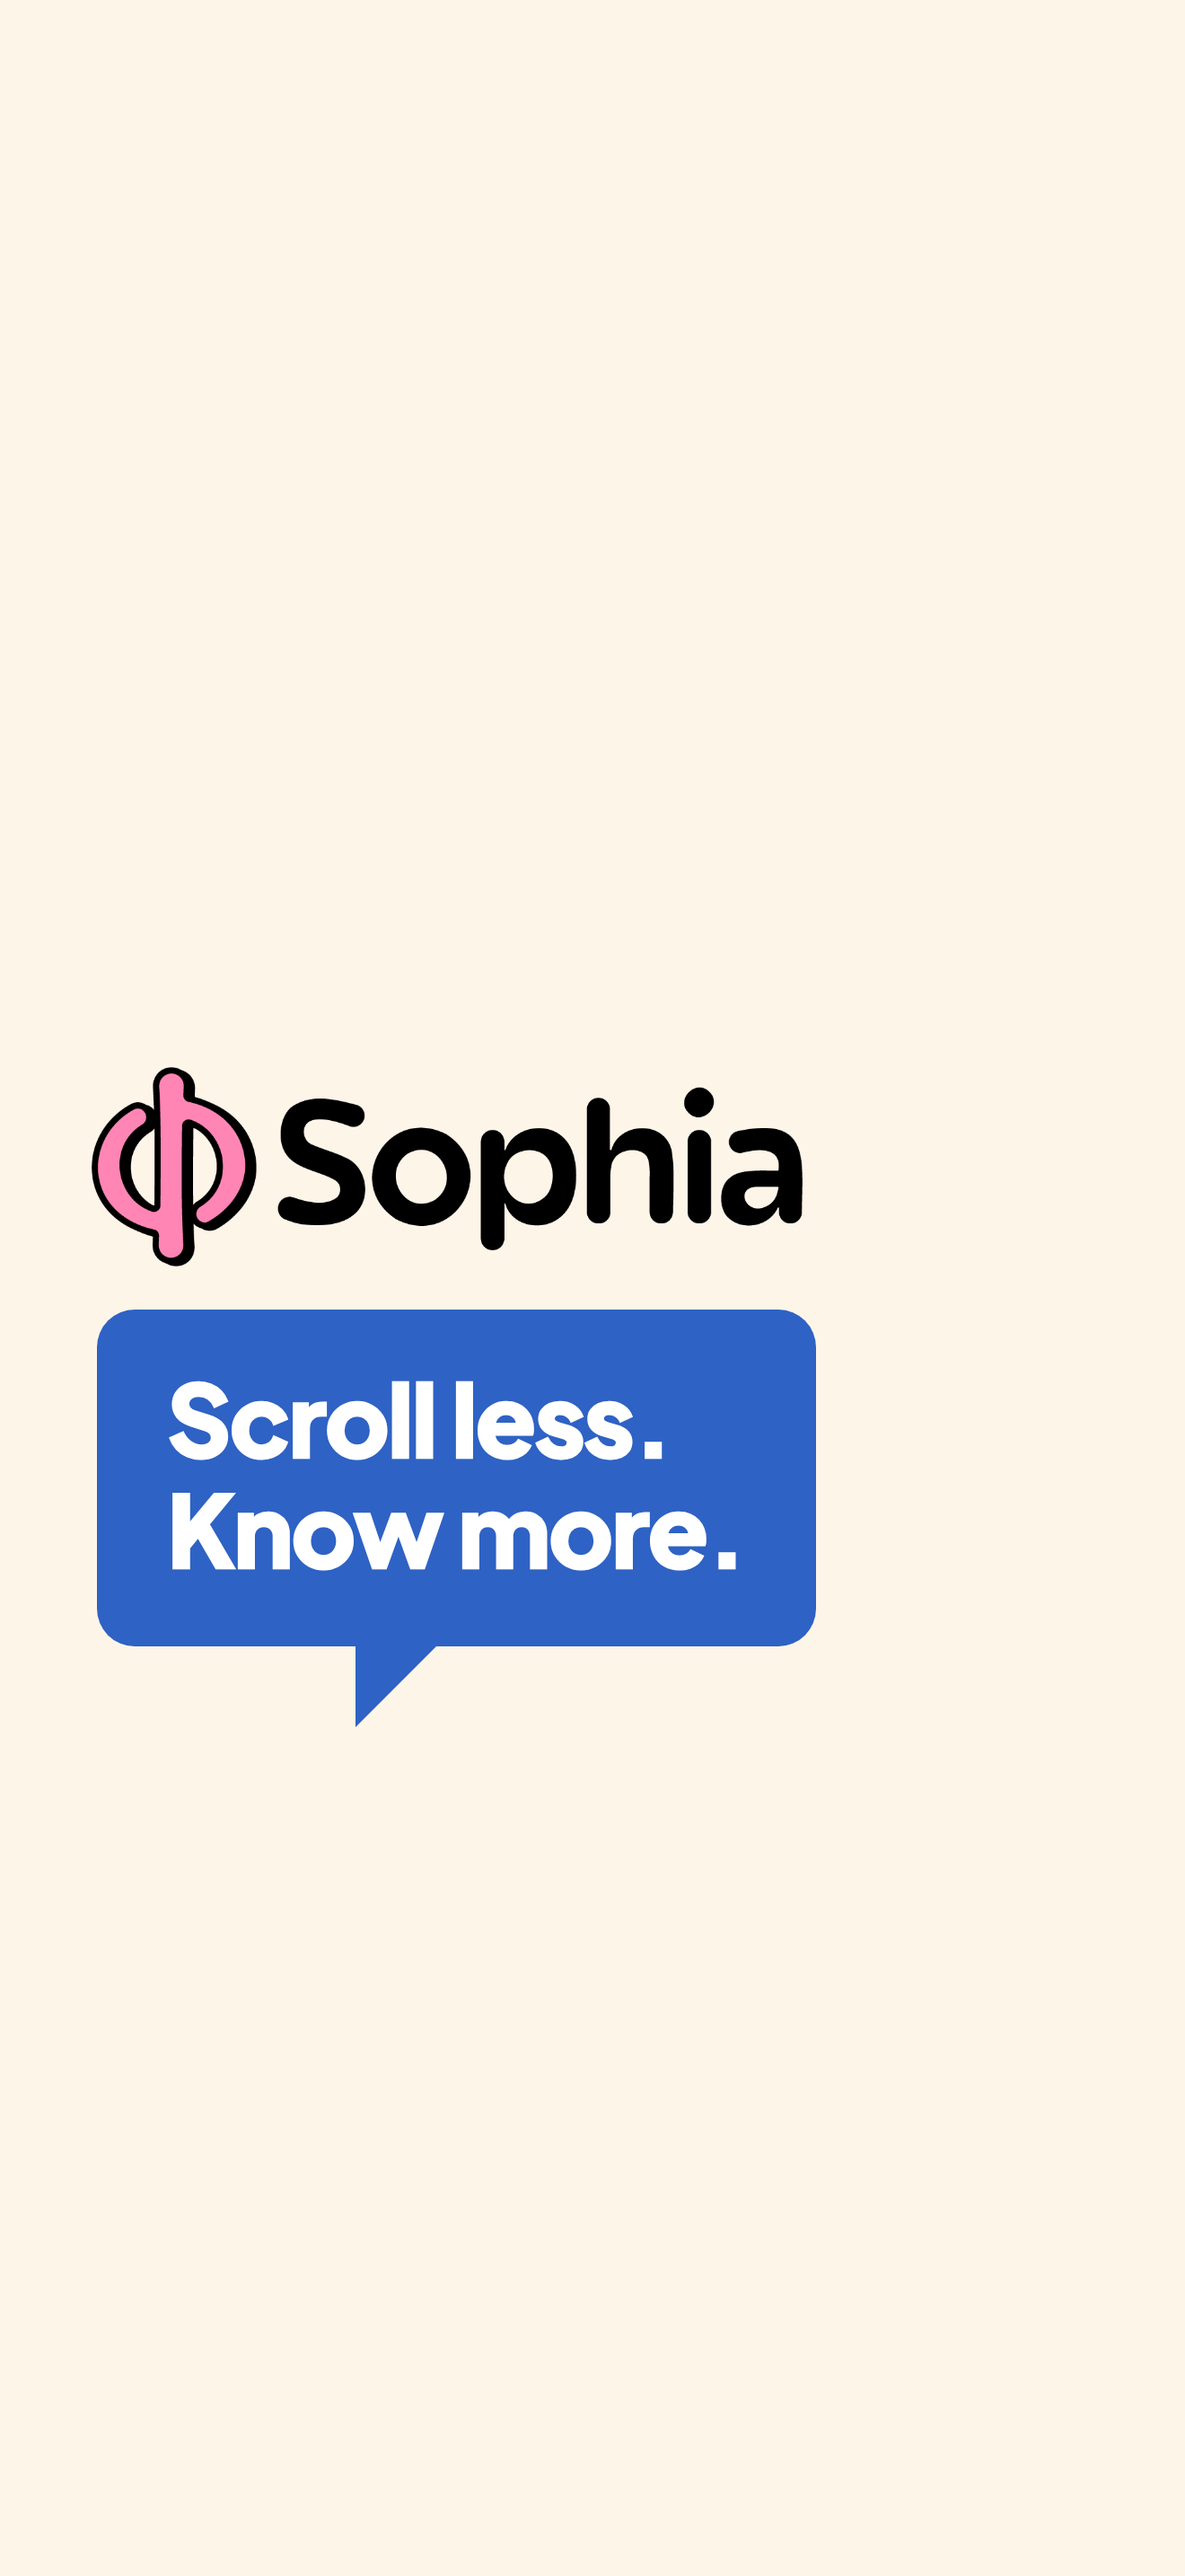
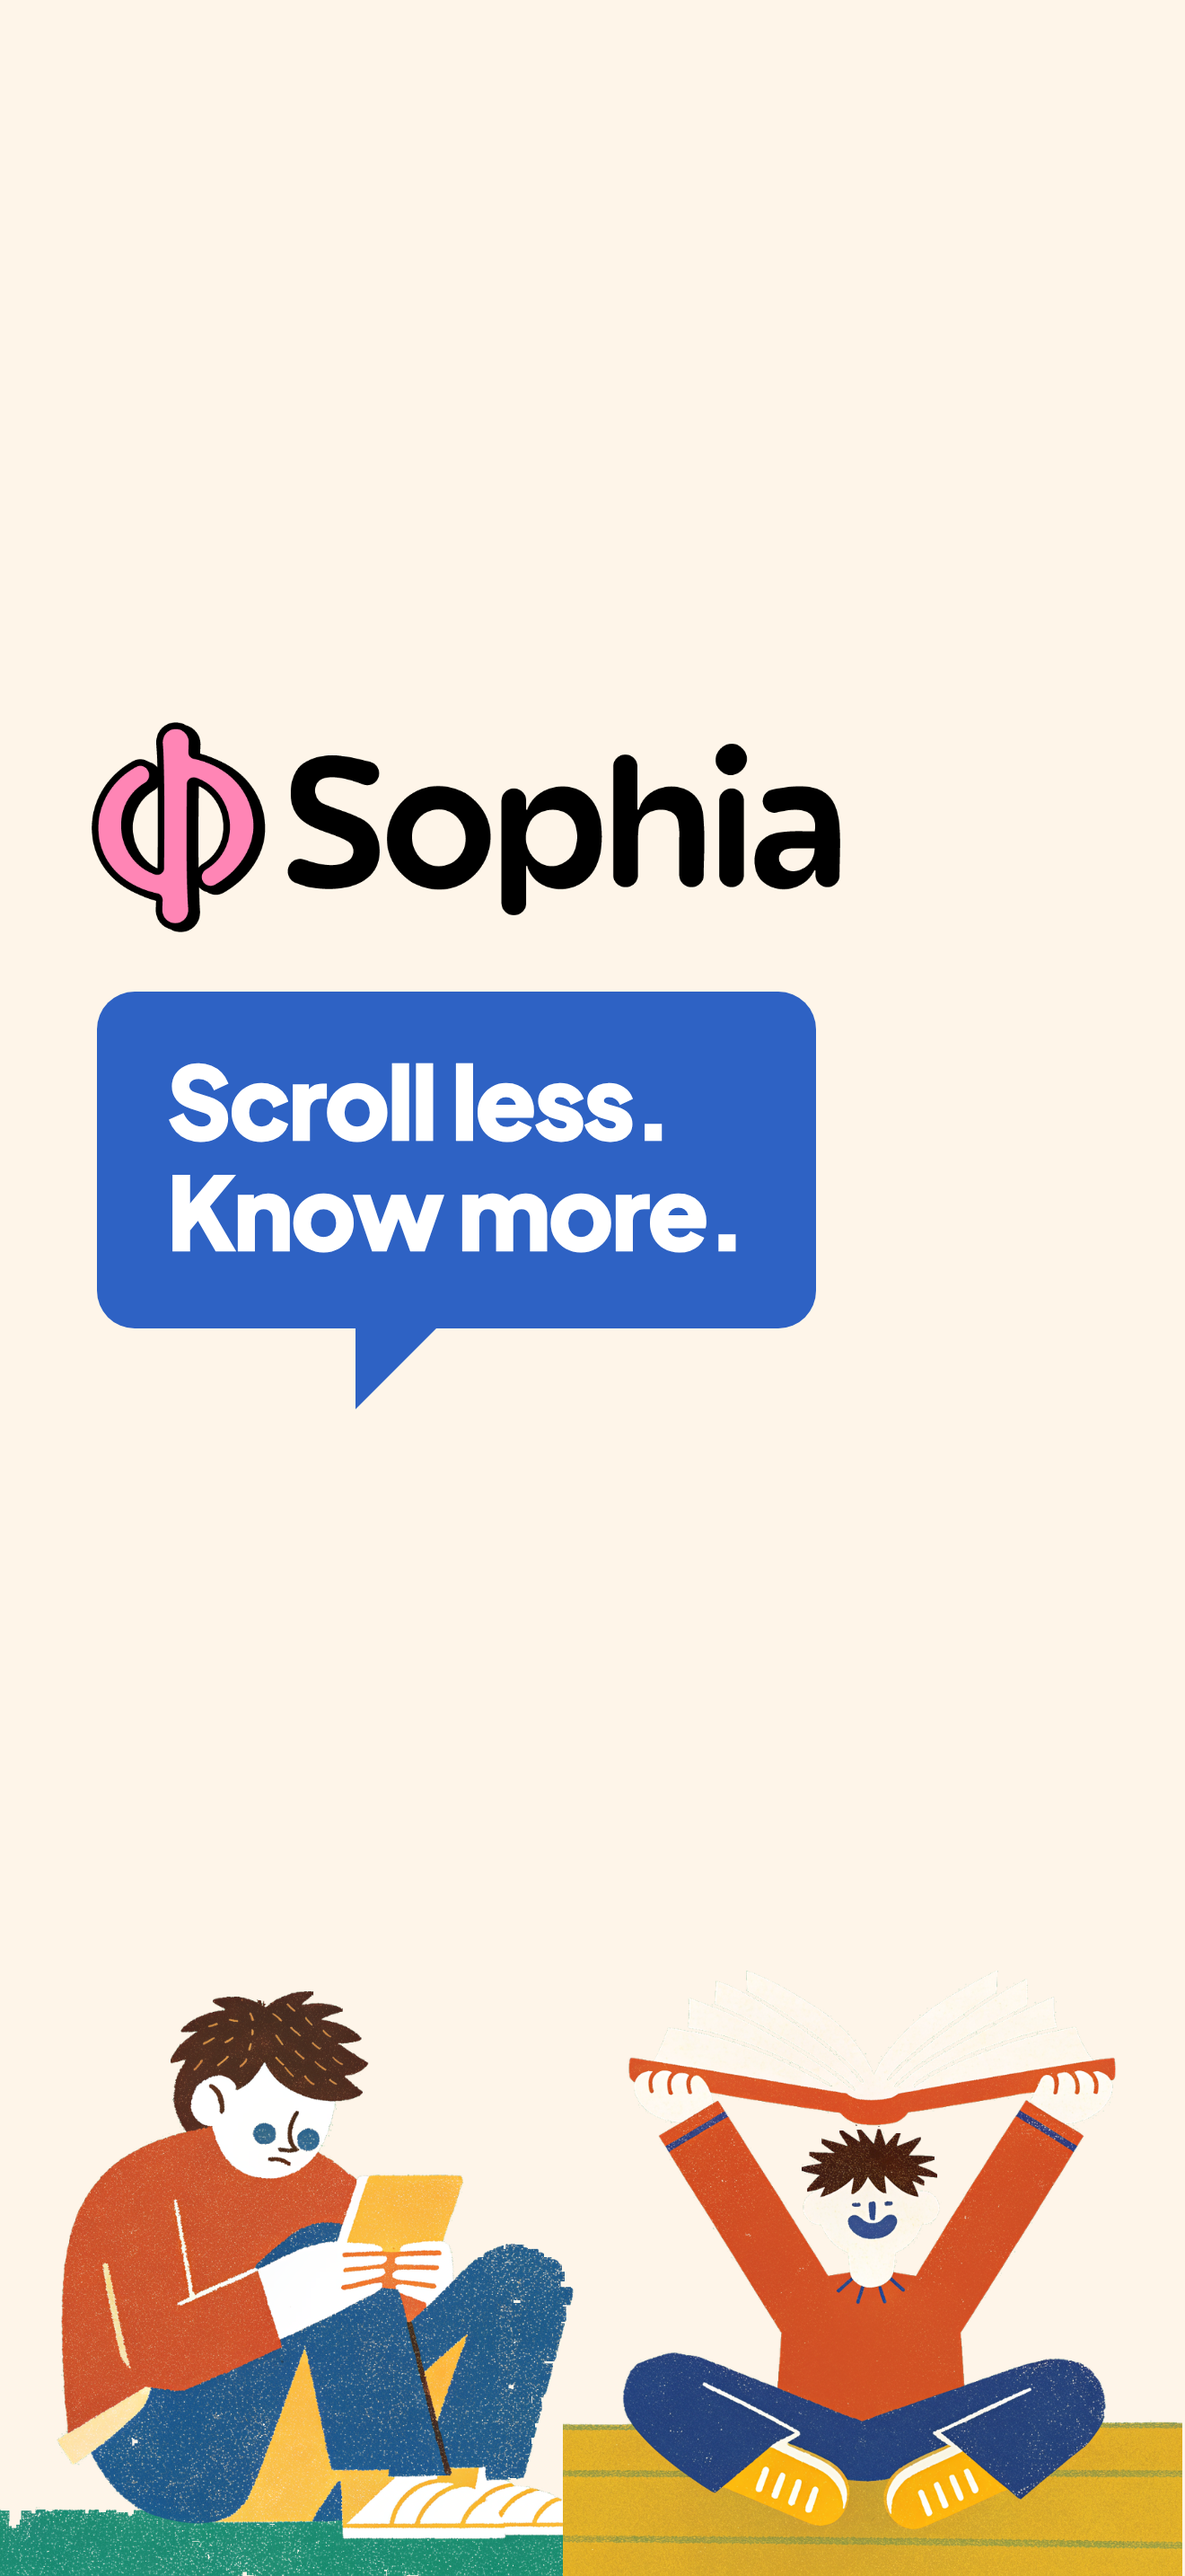
Captures App Store, showcase : garcon avant / apres en bas de la page 1
Le meme adolescent voute sur son telephone, puis livre en l'air, pose sur
le bord bas de la premiere page sous le logo et la bulle.

Claude-Session: https://claude.ai/code/session_01Yb4eBsmKHAU4mkJzSv6usd

Changed region(s): [[0.0621, 0.2793, 0.7144, 0.6827], [0.0, 0.7758, 1.0, 1.0]]

diff --git a/appstore/screenshots/src/pano.html b/appstore/screenshots/src/pano.html
@@ -48,8 +48,8 @@ body.loud .profs { top: 206px; }
 .phone.thick::before { left: -8px; top: 92px; height: 26px; box-shadow: 0 46px 0 var(--frame), 0 82px 0 var(--frame); }
 .phone.thick::after { right: -8px; top: 150px; height: 70px; }
 /* Opening on cream with the colour logo (pink mark, black wordmark) */
-.logo.brand { left: 34px; top: 396px; height: 74px; }
-.panel.cream .bubble { background: #2e62c4; }
+.logo.brand { left: 34px; top: 268px; height: 78px; }
+.panel.cream .bubble { background: #2e62c4; top: 368px; }
 .panel.cream .bubble::after { border-top-color: #2e62c4; border-left-color: #2e62c4; }
 .profs { position: absolute; left: 24px; right: 24px; top: 196px; display: flex; flex-direction: column; gap: 14px; z-index: 4; }
 .prof { background: #fff; border-radius: 20px; border: 1.5px solid #dfe4ee; padding: 14px 16px; display: flex; align-items: center; gap: 14px; }

diff --git a/appstore/screenshots/src/pano.js b/appstore/screenshots/src/pano.js
@@ -201,7 +201,9 @@ const PANOS = {
       screen: s, cx: mid(i), cy: 232 + (956 * 0.78 + 21) / 2, s: 0.78,
       frame: i === 1 ? "#cdd9f5" : "#2e62c4", band: i === 1 ? "#e9effb" : "#dbe5f8" })),
     people: [
-      // the opening panel carries the logo and the bubble only
+      // opening panel: logo, bubble, and the before / after boy sitting on the bottom edge
+      { name: "boy_before", x: 112, b: 956, h: 232, z: 1 },
+      { name: "boy_after", x: 324, b: 956, h: 230, z: 1 },
       { name: "trophy", x: P(4) + 220, b: 1000, h: 185 },
       { name: "phone_away", x: P(7) + 372, b: 975, h: 215, flip: true },
       { name: "idea", x: P(8) + 330, b: 990, h: 240, flip: true },

diff --git a/appstore/screenshots/people.py b/appstore/screenshots/people.py
@@ -45,7 +45,38 @@ PROPS = {
     "prop_globe": "A desk globe of the Earth on a stand.",
     "prop_mask": "A pair of theatre masks, comedy and tragedy.",
 }
-PROMPTS = {**{k: v + " " + STYLE for k, v in PEOPLE.items()}, **{k: v + " " + PROP_STYLE for k, v in PROPS.items()}}
+# Before / after for the opening panel: the same teenager slumped over a phone, then reading.
+# The model draws a floor whatever the prompt says, so the prompt asks for a cream wall and a
+# green floor strip: the wall is cut out by colour (chroma key on the top corners, which keeps
+# the cream and white parts of the figure) and the two floors line up along the panel's bottom
+# edge. Recraft caps prompts at 1000 characters. Several takes were made and one pair kept.
+BOY = ("a teenage boy with pale cream skin, messy straight dark brown hair with spiky tufts, coral red sweater, "
+       "navy blue trousers, cream sneakers with saffron stripes")
+SCENE_STYLE = ("Whole figure visible, centred. Flat poster illustration, paper-cut shapes, palette of navy blue, "
+               "saffron yellow, coral red, cream and brown, bold simple forms, subtle paper grain, plain empty cream "
+               "background, a thin flat green floor strip along the bottom edge, no text, no outlines, no furniture.")
+SCENES = {
+    "boy_before": f"Full-body drawing of {BOY}, sitting slumped on the floor with knees up, back hunched, head down, staring at a smartphone held in both hands, tired half-closed eyes, sad bored expression. " + SCENE_STYLE,
+    "boy_after": f"Full-body drawing of {BOY}, sitting upright cross-legged on the floor, holding a big open saffron book, head up above the book, wide awake, big delighted smile. " + SCENE_STYLE,
+}
+SCENE_COLORS = COLORS[:4] + [[92, 58, 38], [38, 150, 140]]
+
+def chroma_key(im):
+    """Transparent wherever the pixel is close to the wall colour sampled in the top corners."""
+    import numpy as np
+    a = np.asarray(im.convert("RGB")).astype(float)
+    corners = np.concatenate([a[:24, :24].reshape(-1, 3), a[:24, -24:].reshape(-1, 3)])
+    d = np.sqrt(((a - np.median(corners, axis=0)) ** 2).sum(axis=2))
+    alpha = np.clip((d - 38) / 22, 0, 1)
+    out = Image.fromarray(np.dstack([a, alpha * 255]).astype("uint8"), "RGBA")
+    # drop the paper-grain specks the key leaves on the wall: keep alpha only near solid areas
+    from PIL import ImageChops, ImageFilter
+    al = out.getchannel("A")
+    solid = al.point(lambda v: 255 if v > 128 else 0).filter(ImageFilter.MinFilter(7)).filter(ImageFilter.MaxFilter(13))
+    out.putalpha(ImageChops.multiply(al, solid))
+    return out
+
+PROMPTS = {**SCENES, **{k: v + " " + STYLE for k, v in PEOPLE.items()}, **{k: v + " " + PROP_STYLE for k, v in PROPS.items()}}
 
 def call(method, url, body=None):
     req = urllib.request.Request(url, data=json.dumps(body).encode() if body is not None else None, method=method,
@@ -67,18 +98,25 @@ def run(model, payload, budget=420):
     raise TimeoutError(model)
 
 def make(name):
-    res = run("fal-ai/recraft-v3", {"prompt": PROMPTS[name], "image_size": "square_hd" if name in PROPS else "portrait_4_3",
-        "style": "digital_illustration/2d_art_poster", "colors": [{"r": c[0], "g": c[1], "b": c[2]} for c in COLORS]})
+    res = run("fal-ai/recraft-v3", {"prompt": PROMPTS[name], "image_size": "square_hd" if name in PROPS or name in SCENES else "portrait_4_3",
+        "style": "digital_illustration/2d_art_poster", "colors": [{"r": c[0], "g": c[1], "b": c[2]} for c in (SCENE_COLORS if name in SCENES else COLORS)]})
     url = res["images"][0]["url"]
-    cut = run("fal-ai/birefnet", {"image_url": url, "output_format": "png"})
-    with urllib.request.urlopen(urllib.request.Request(cut["image"]["url"], headers={"User-Agent": "appstore-art/1.0"}), timeout=120) as r:
-        im = Image.open(io.BytesIO(r.read())).convert("RGBA")
-    im = im.crop(im.getbbox())
+    if name in SCENES:
+        with urllib.request.urlopen(urllib.request.Request(url, headers={"User-Agent": "appstore-art/1.0"}), timeout=120) as r:
+            im = chroma_key(Image.open(io.BytesIO(r.read())))
+    else:
+        cut = run("fal-ai/birefnet", {"image_url": url, "output_format": "png"})
+        with urllib.request.urlopen(urllib.request.Request(cut["image"]["url"], headers={"User-Agent": "appstore-art/1.0"}), timeout=120) as r:
+            im = Image.open(io.BytesIO(r.read())).convert("RGBA")
+    if name not in SCENES:
+        im = im.crop(im.getbbox())
     if max(im.size) > 900:
         k = 900 / max(im.size); im = im.resize((round(im.width * k), round(im.height * k)), Image.LANCZOS)
     OUT.mkdir(parents=True, exist_ok=True)
-    im.save(OUT / f"{name}.png", optimize=True)
+    im.save(OUT / f"{name}{SUFFIX}.png", optimize=True)
     print(name, im.size, flush=True)
+
+SUFFIX = os.environ.get("SUFFIX", "")   # to keep several takes of one prompt
 
 if __name__ == "__main__":
     if not KEY: sys.exit("FAL_KEY manquant")
@@ -86,5 +124,5 @@ if __name__ == "__main__":
     from concurrent.futures import ThreadPoolExecutor
     def safe(n):
         try: make(n)
-        except Exception as e: print("ECHEC", n, repr(e)[:300], flush=True)
+        except Exception as e: print("ECHEC", n, repr(e)[:200], getattr(e, "read", lambda: b"")()[:300], flush=True)
     with ThreadPoolExecutor(5) as ex: list(ex.map(safe, names))
